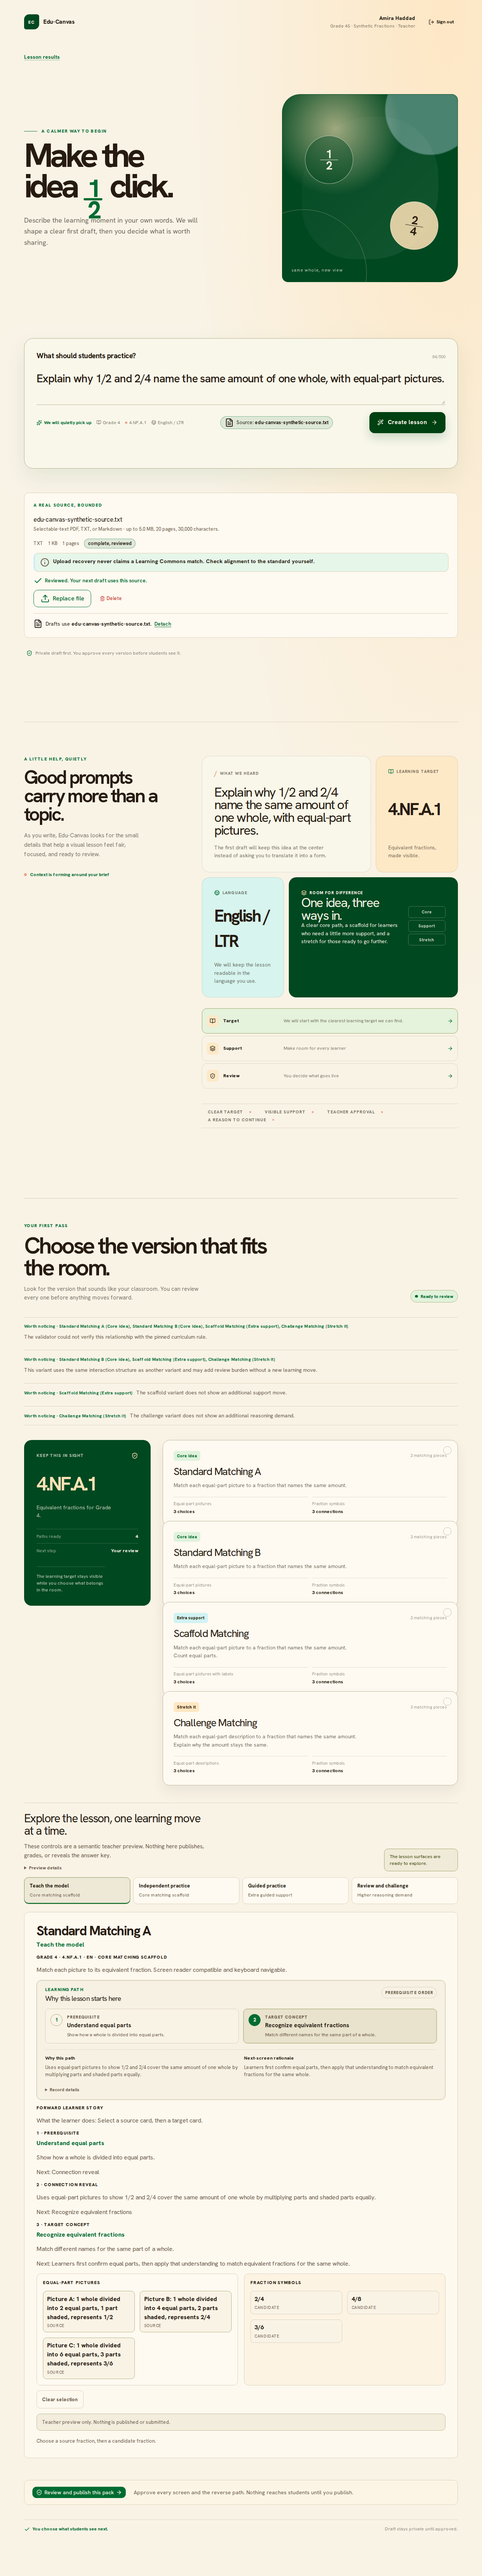
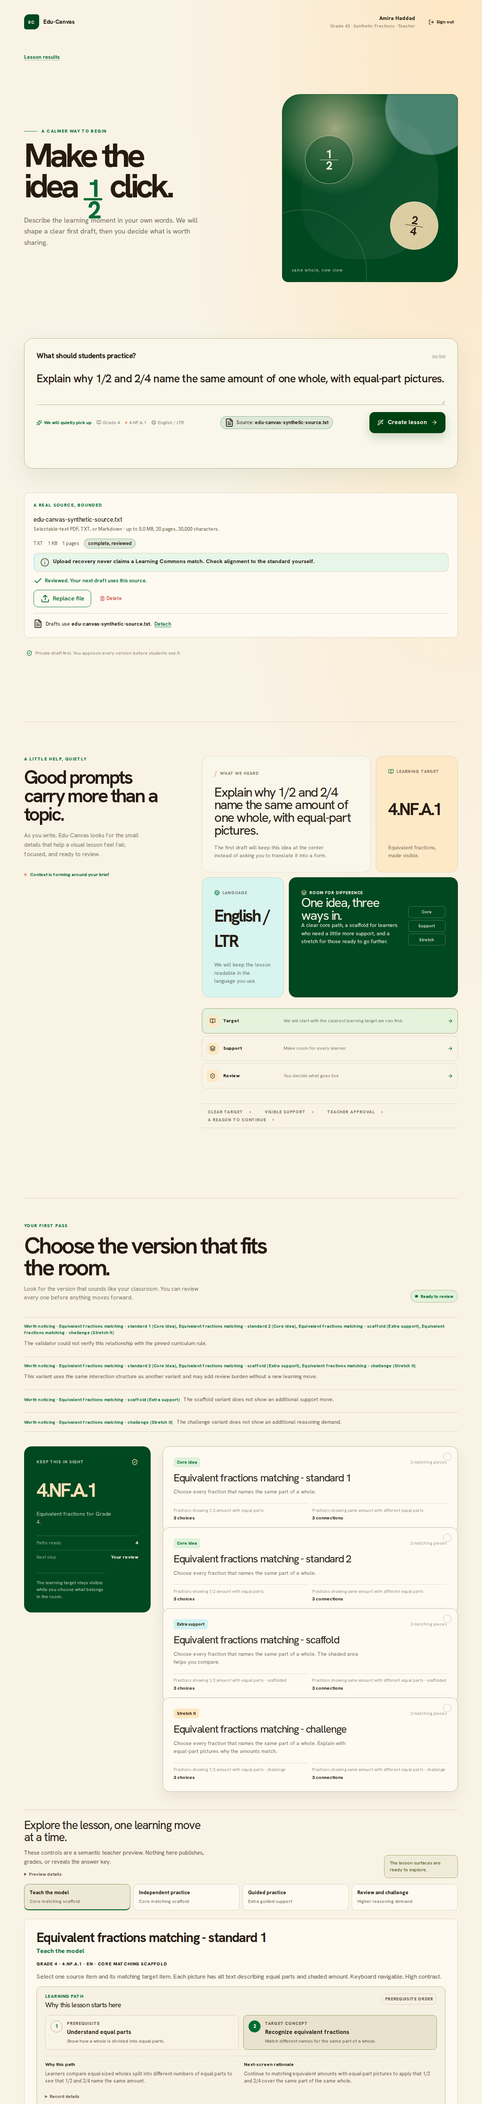
test(assessment): record the dashboard cases and finalize v1 results

diff --git a/docs/product/teacher-practice-assessment/delegation/results/v1-rollup.md b/docs/product/teacher-practice-assessment/delegation/results/v1-rollup.md
@@ -1,6 +1,6 @@
 # Delegation pack v1 rollup
 
-Rerun set: {s0-smoke}. v0 recorded the pre-fix tree at `65a13c8`; this v1 reruns the affected row after the three fixes below. Run: 2026-11-03T17:41:59.653Z · application revision `50820341907f189c5b005514deb54665c56f68f2` · mode `full` · runner `scripts/eval-practices.ts`.
+Rerun set: {s0-smoke} (three product fixes) + new ac-surface/ac-boundary-empty cases. v0 = the pre-fix tree at `65a13c8`. Run: 2026-11-03T17:56:08.724Z · application revision `508f7fec920e4d93057a8940aff1a2ea15a3a10d` · mode `full` · runner `scripts/eval-practices.ts`.
 
 ## Practices
 
@@ -20,6 +20,8 @@ Capability labels come from the re-pinned rows in the pack README; they are not 
 
 | Case | Practice | Layer | Status / score | Observed |
 | --- | --- | --- | --- | --- |
+| `ac-boundary-empty` | S0 | B-browser | 2 | Designed empty heading=true; result table present=false. |
+| `ac-surface` | S0 | B-browser | 2 | All-results table present=true; provisional note=true; reason="The learner needs another supported example."; provenance="Rule next-activity-rule-591a157cd85e · evidence 88bd2951264664a7a70b9d44ee303f717006f832af3240db31d78dcb0899059f"; preview present=true. |
 | `dg-1-challenge` | DG1 | A | 2 | service.ts:181-186 threw GENERATION_INPUT_INVALID status 422 with the curated Grade 4 message; the .strict() contract also rejected the extra successCriteria field, confirming goal criteria are not captured separately. |
 | `dg-1-normal` | DG1 | A | 2 | lessonGenerationInputSchema rejected the input; zod issues name standardId. The delivery seam maps a parse failure to IdentityError INVALID_INPUT, status 422 (src/server/identity/errors.ts:26). No record is created and no provider call is possible. |
 | `dg-2-challenge` | DG2 | B-det | blocked-feature | The required workflow does not exist at the pinned revision; absence evidence is the recorded grep in the pack README. Flip: Unblocks when an approach-comparison stage exists in the generation workflow and a chosen approach can be recorded and honored. |
@@ -29,11 +31,26 @@ Capability labels come from the re-pinned rows in the pack README; they are not 
 | `dg-4-challenge` | DG4 | A | 2 | reviewLearningQuality returned hard_block with READING_LEVEL_TOO_COMPLEX (warning, field instructions, recommendation present) and UNSAFE_CLAIM (hard block) — the app names what to double-check without claiming verification. |
 | `dg-4-normal` | DG4 | A | 2 | reviewLearningQuality (learning-quality-validator.ts:295) returned verdict pass with no warning or hard_block findings on the strong draft. The validator claims no verification of reading level or pedagogy, matching the partial capability. |
 | `dg-5-challenge` | DG5 | B-browser | 2 | Recovery panel rendered (#revise-request present=true); retry-style control present=false; publish control present=false. |
-| `dg-5-normal` | DG5 | B-live | 2 | 4 variant cards rendered; titles observed: ["Standard Matching A","Standard Matching B","Scaffold Matching","Challenge Matching"]; distinct titles: 4; teacher checked the first card and opened review. |
+| `dg-5-normal` | DG5 | B-live | 2 | 4 variant cards rendered; titles observed: ["Equivalent fractions matching - standard 1","Equivalent fractions matching - standard 2","Equivalent fractions matching - scaffold","Equivalent fractions matching - challenge"]; distinct titles: 4; teacher checked the first card and opened review. |
 | `dg-6-challenge` | DG6 | B-det | 2 | Decision rules held: the drifted retry was refused RETRY_METADATA_MISMATCH 409 and the ready-for-review retry was refused DRAFT_NOT_RETRYABLE 409; the record stayed at state ready-for-review attempt 1. |
 | `dg-6-normal` | DG6 | B-det | 2 | Real PostgreSQL persistence plus the deterministic fixture provider: the first attempt settled failed-retryable with retry available; the retry (retryOfRequestId set) advanced the same record to ready-for-review at attempt 2 with 2 recorded attempts and a four-variant draft. |
 | `dg-7-challenge` | DG7 | B-det | blocked-feature | The required workflow does not exist at the pinned revision; absence evidence is the recorded grep in the pack README. Flip: Unblocks when a stop or continuation-prevention control exists in the studio or review workflow. |
 | `dg-7-normal` | DG7 | B-det | blocked-feature | The required workflow does not exist at the pinned revision; absence evidence is the recorded grep in the pack README. Flip: Unblocks when a section handback control exists in the studio or review workflow. |
-| `s0-smoke` | S0 | B-browser | 2 | All steps completed. Publish outcome=linked (/learn?assignment=01a1a27f-feac-7f79-a0dd-67f53f47d5d7&variant=variant_standard_01). Attempt submitted (1 of 3 matched.); board 3 sources / 3 targets. |
+| `s0-smoke` | S0 | B-browser | 2 | All steps completed. Publish outcome=linked (/learn?assignment=01a1a28d-4f95-7e72-b322-45f5752727c3&variant=variant_standard_01). Attempt submitted (1 of 3 matched.); board 3 sources / 3 targets. |
 
 None of the statuses above is a pass by itself.
+
+
+## #8 acceptance map (issue #8, all 7 ACs)
+
+| AC | Claim | Case id / evidence |
+| --- | --- | --- |
+| 1 completed submission after refresh, history immutable | ac-surface (read side) + progress-database suite (storage side) | results/s0/s0-16-ac-surface.png; src/server/persistence/progress-database.test.ts |
+| 2 displayed reason matches the deterministic decision | replayNextActivity suite (AC2 row) | src/server/persistence/progress-database.test.ts (replay diff) |
+| 3 no unrelated student or tenant data | ac-boundary-empty + progress-database tenant rows | results/s0/s0-16-ac-empty.png |
+| 4 read-only preview link | ac-surface (`.progress-preview`) | results/s0/s0-16-ac-surface.png |
+| 5 reason explains routing | ac-surface (`.progress-purpose` + reason verbatim) | results/s0/s0-16-ac-surface.png |
+| 6 designed non-happy states | dashboard-surfaces suites (loading/empty/permission/missing/error) + ac-boundary-empty (live empty) | src/components/dashboard/dashboard-surfaces.test.ts |
+| 7 boundary/no-data/error/reason test coverage | pnpm check suites + this pack's deterministic subset | results/v1.json |
+
+AC7 note: unit-test counts alone score nothing per the pack method; the live surface rows above carry the browser traces.
